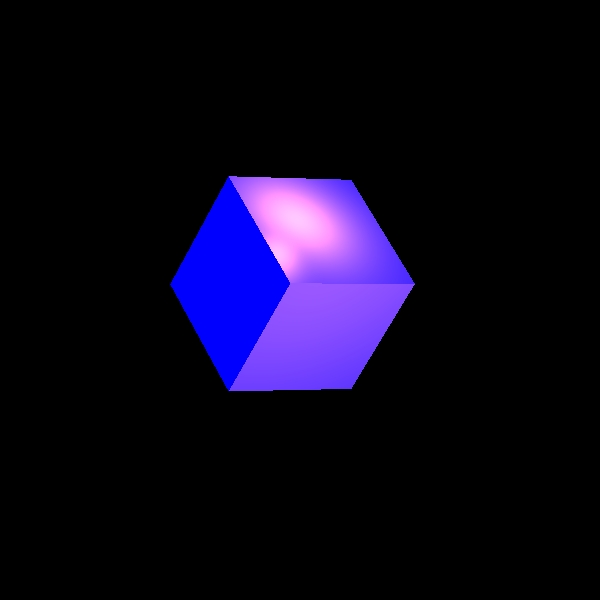
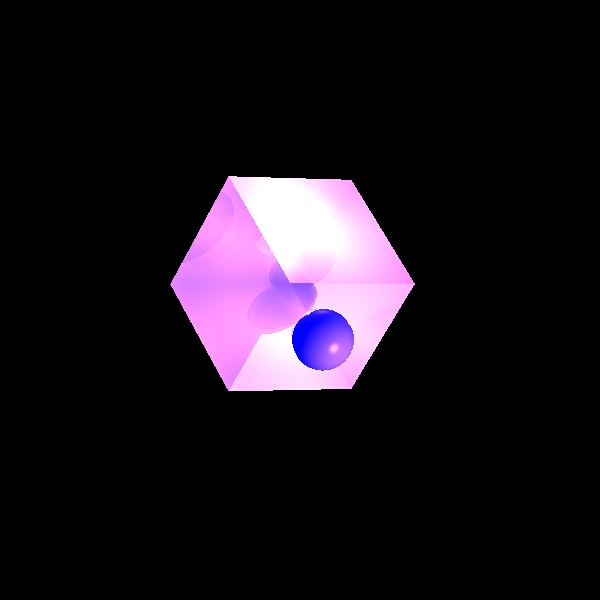
notre version pour nous et que pour nous

Changed region(s): [[0.27, 0.27, 0.69, 0.66]]

diff --git a/unitTest/Private/DiamondTest.java b/unitTest/Private/DiamondTest.java
@@ -5,7 +5,6 @@ import elements.Camera;
 import elements.Material;
 import elements.SpotLight;
 import geometries.Intersectable;
-import geometries.Polygon;
 import org.junit.Test;
 import primitives.Color;
 import primitives.Point3D;
@@ -17,7 +16,7 @@ import scene.Scene;
 
 import java.util.List;
 
-import static org.junit.Assert.*;
+import static org.junit.Assert.assertEquals;
 
 public class DiamondTest {
 
@@ -64,31 +63,31 @@ public class DiamondTest {
         scene = new Scene.SceneBuilder("Test scene")
                 .addAmbientLight(new AmbientLight(Color.BLACK, 0.5))
                 .addCamera(new Camera(
-                        new Point3D(0, 20, -400),
-                        new Vector(0, 0, 1),
-                        new Vector(0,1 ,0 )))
+                        new Point3D(0, -50, -35),
+                        new Vector(0, 2, 1),
+                        new Vector(0,1 ,-2 )))
                 .addDistance(1000)
                 .addBackground(Color.BLACK)
                 .build();
 
         scene.addGeometries( //
-                             new Polygon(new Color(100, 100, 100), new Material(0, 0.8, 40),
+                             /*new Polygon(new Color(100, 100, 100), new Material(0, 0.8, 40),
                                          new Point3D(-150,10, -200),
                                          new Point3D(150, 10,-200),
                                          new Point3D(150, 10,2000),
                                          new Point3D(-150, 10, 2000)
 
-                             ),
+                             ),*/
                              new Diamond(
                         new Color(115, 200, 150),
-                        new Material(0, 0, 30),
-                        new Point3D(0, -10, 0), 32, 28)
+                        new Material(0.5, 0.5, 30,0.6,0),
+                        new Point3D(0, 10, 0), 12, 10)
         );
 
         scene.addLights(
-        new SpotLight(new Color(700, 400, 400),
-                      new Point3D(0, 10, -100),
-                      new Vector(0, 0, 1),
+        new SpotLight(new Color(100, 250, 250),
+                      new Point3D(0, -100, 0),
+                      new Vector(0, 1, 0),
                       1, 4E-4, 2E-5));
 
 

diff --git a/unitTest/Private/CubeTest.java b/unitTest/Private/CubeTest.java
@@ -5,7 +5,7 @@ import elements.Camera;
 import elements.Material;
 import elements.SpotLight;
 import geometries.Intersectable.GeoPoint;
-import geometries.Triangle;
+import geometries.Sphere;
 import org.junit.Test;
 import primitives.Color;
 import primitives.Point3D;
@@ -108,9 +108,15 @@ public class CubeTest {
                 new Triangle(Color.BLACK, new Material(0, 0.8, 60), //
                         new Point3D(-150, 150, 115), new Point3D(-70, -70, 140), new Point3D(75, -75, 150)), */ //
                 new Cube(new Color(java.awt.Color.BLUE),
-                        new Material(0.5, 0.5, 30),
+                        new Material(0.5, 0.5, 30,0.6,0),
                         new Point3D(0, 0, 115),
-                        100,100,100));
+                        100,100,100),
+            new Sphere(new Color(java.awt.Color.BLUE),
+                new Material(0.5, 0.5, 30),
+                    20,new Point3D(10,10,75)
+                )
+        );
+
 
         scene.addLights(new SpotLight(new Color(700, 400, 400), //
                 new Point3D(40, -40, -115), new Vector(-1, 1, 4), 1, 4E-4, 2E-5));
